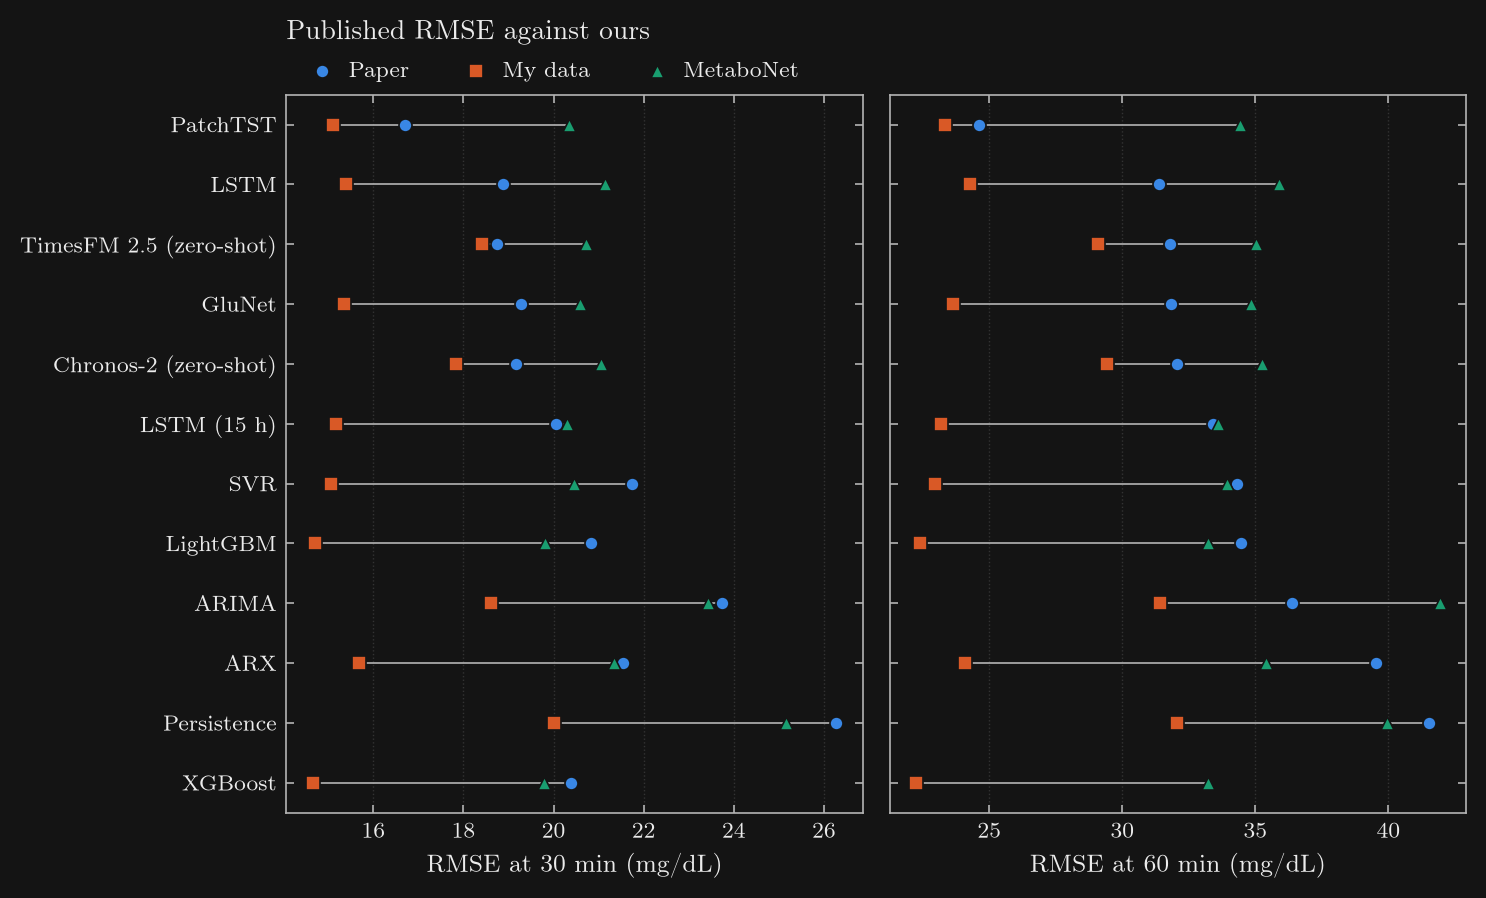
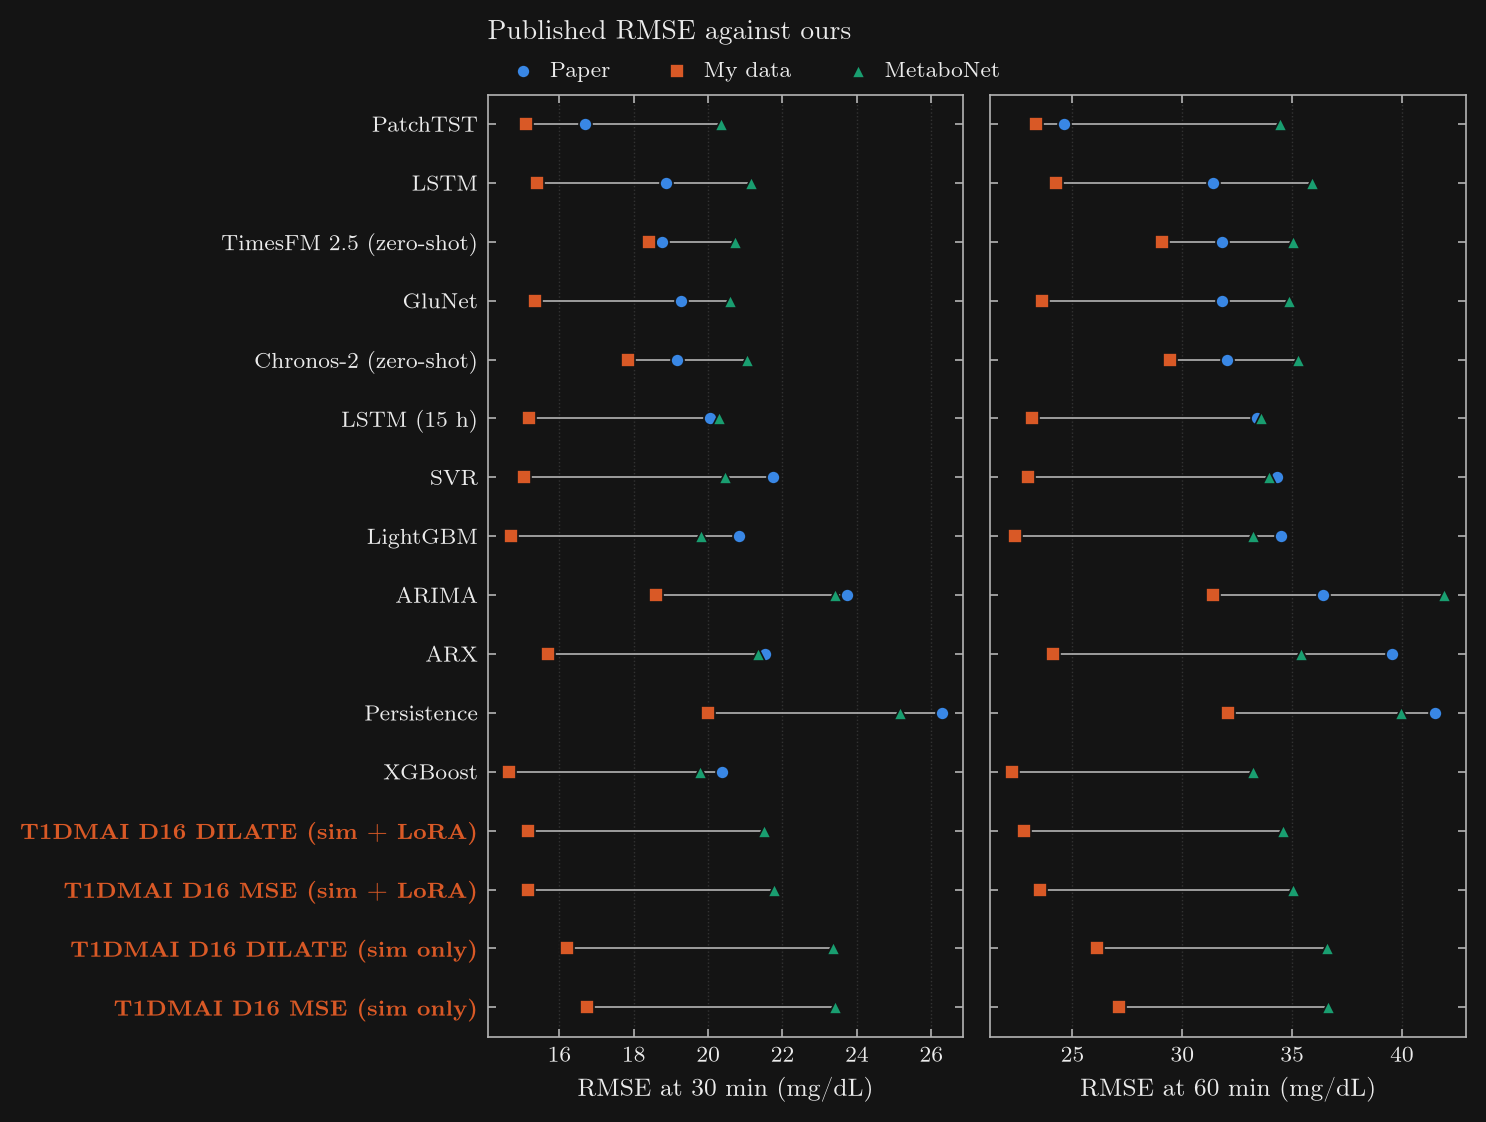
Add the T1DMAI models to the published scores figure and table
Claude-Session: https://claude.ai/code/session_01PhTL2TnzykHzNM6sbSfap7

diff --git a/leaderboard.py b/leaderboard.py
@@ -512,11 +512,21 @@ def fig_leaderboard(rows, title, stem, metric='rmse', xlabel='RMSE (mg/dL)', rev
         plt.close(fig)
 
 
+def _published_rows(pub: dict, scored: dict[str, list[dict]]) -> list[dict]:
+    """Paper rows by paper 60-min RMSE, then ``pub['ours']`` keys with no paper score."""
+    labels = {r['key']: r for rows in scored.values() for r in rows}
+    rows = [dict(p, family='') for p in sorted(pub['rows'],
+                                               key=lambda p: p['rmse'].get('60', np.inf))]
+    return rows + [{'key': k, 'label': labels[k]['label'], 'family': labels[k]['family'],
+                    'ref': None, 'dataset': '-', 'inputs': '-', 'rmse': {}}
+                   for k in pub.get('ours', []) if k in labels]
+
+
 def fig_published(pub, scored, shorts, title, stem):
     """Two panels (30, 60 min): paper RMSE and ours per track, one row per published model."""
     import matplotlib.pyplot as plt
     by = {n: {r['key']: r for r in rows} for n, rows in scored.items()}
-    rows = sorted(pub['rows'], key=lambda p: p['rmse'].get('60', np.inf))
+    rows = _published_rows(pub, scored)
     names = ['Paper', *shorts.values()]
     for theme, th in THEMES.items():
         fig, axes = plt.subplots(1, 2, sharey=True, figsize=(7.5, 0.28 * len(rows) + 1.2))
@@ -534,7 +544,7 @@ def fig_published(pub, scored, shorts, title, stem):
                 ax.plot([ok.min(), ok.max()], [i, i], color=th['ink2'], lw=0.6, zorder=2)
             ax.set_xlabel(tex(f'RMSE at {h} min (mg/dL)'))
         axes[0].set_ylim(len(rows) - 0.5, -0.5)
-        _model_ticks(axes[0], [{'label': p['label'], 'family': ''} for p in rows], th)
+        _model_ticks(axes[0], rows, th)
         axes[1].tick_params(labelleft=False)
         _legend(axes[0], th, loc='lower left', bbox_to_anchor=(0.0, 1.0), ncols=3,
                 borderaxespad=0.2, handletextpad=0.2)
@@ -969,9 +979,10 @@ def published_table(pub: dict, scored: dict[str, list[dict]], shorts: dict[str, 
         head += [f'{s} {h}' for h in hs]
     lines = ['| ' + ' | '.join(head) + ' |', '| --- | --- | --- | --- |' + ' ---: |' * (len(head) - 4)]
     by = {n: {r['key']: r for r in rows} for n, rows in scored.items()}
-    for p in pub['rows']:
-        ref = next(r for r in pub['references'] if r['id'] == p['ref'])
-        cells = [p['label'], f"[{num[p['ref']]}]({ref['url']})", p['dataset'], p['inputs'],
+    urls = {r['id']: r['url'] for r in pub['references']}
+    for p in _published_rows(pub, scored):
+        cite = f"[{num[p['ref']]}]({urls[p['ref']]})" if p['ref'] else '-'
+        cells = [p['label'], cite, p['dataset'], p['inputs'],
                  *(_fmt(p['rmse'].get(h)) for h in hs)]
         for n in shorts:
             ours = by[n].get(p['key'])

diff --git a/README.md b/README.md
@@ -507,20 +507,24 @@ two sides is not a like-for-like comparison. My data is non-blind, MetaboNet bli
 
 | Model | Paper | Paper data | Paper inputs | Paper 30 | Paper 60 | My data 30 | My data 60 | MetaboNet 30 | MetaboNet 60 |
 | --- | --- | --- | --- | ---: | ---: | ---: | ---: | ---: | ---: |
-| Persistence | [3](https://arxiv.org/abs/2606.18640) | MetaboNet | CGM | 26.3 | 41.5 | 20.0 | 32.1 | 25.2 | 40.0 |
-| ARX | [6](https://doi.org/10.1109/JBHI.2019.2931842) | OhioT1DM 2018 (6) | CGM, carbs, insulin | 21.5 | 39.5 | 15.7 | 24.1 | 21.3 | 35.4 |
-| ARIMA | [8](https://ceur-ws.org/Vol-2675/) | OhioT1DM 2020 (6) | CGM, doses, meals, exercise | 23.7 | 36.4 | 18.6 | 31.4 | 23.4 | 41.9 |
-| SVR | [6](https://doi.org/10.1109/JBHI.2019.2931842) | OhioT1DM 2018 (6) | CGM, carbs, insulin | 21.8 | 34.3 | 15.1 | 23.0 | 20.4 | 33.9 |
-| XGBoost | [7](https://ceur-ws.org/Vol-2148/) | OhioT1DM 2018 (6) | CGM, doses, meals, activity | 20.4 | - | 14.7 | 22.2 | 19.8 | 33.2 |
-| LightGBM | [3](https://arxiv.org/abs/2606.18640) | MetaboNet | CGM, carbs, insulin, time | 20.8 | 34.5 | 14.7 | 22.4 | 19.8 | 33.2 |
-| LSTM | [5](https://doi.org/10.1007/s41666-019-00059-y) | OhioT1DM 2018 (6) | CGM | 18.9 | 31.4 | 15.4 | 24.3 | 21.1 | 35.9 |
-| LSTM (15 h) | [3](https://arxiv.org/abs/2606.18640) | MetaboNet | CGM, carbs, insulin | 20.1 | 33.4 | 15.2 | 23.2 | 20.3 | 33.6 |
-| GluNet | [6](https://doi.org/10.1109/JBHI.2019.2931842) | OhioT1DM 2018 (6) | CGM, carbs, insulin | 19.3 | 31.8 | 15.4 | 23.6 | 20.6 | 34.8 |
 | PatchTST | [9](https://arxiv.org/abs/2505.08821) | DCLP3 train, OhioT1DM test (12) | CGM, carbs, insulin | 16.7 | 24.6 | 15.1 | 23.3 | 20.3 | 34.4 |
-| Chronos-2 (zero-shot) | [4](https://arxiv.org/abs/2606.06881) | 12 datasets, mixed | CGM | 19.2 | 32.0 | 17.8 | 29.4 | 21.0 | 35.3 |
+| LSTM | [5](https://doi.org/10.1007/s41666-019-00059-y) | OhioT1DM 2018 (6) | CGM | 18.9 | 31.4 | 15.4 | 24.3 | 21.1 | 35.9 |
 | TimesFM 2.5 (zero-shot) | [4](https://arxiv.org/abs/2606.06881) | 12 datasets, mixed | CGM | 18.8 | 31.8 | 18.4 | 29.1 | 20.7 | 35.0 |
+| GluNet | [6](https://doi.org/10.1109/JBHI.2019.2931842) | OhioT1DM 2018 (6) | CGM, carbs, insulin | 19.3 | 31.8 | 15.4 | 23.6 | 20.6 | 34.8 |
+| Chronos-2 (zero-shot) | [4](https://arxiv.org/abs/2606.06881) | 12 datasets, mixed | CGM | 19.2 | 32.0 | 17.8 | 29.4 | 21.0 | 35.3 |
+| LSTM (15 h) | [3](https://arxiv.org/abs/2606.18640) | MetaboNet | CGM, carbs, insulin | 20.1 | 33.4 | 15.2 | 23.2 | 20.3 | 33.6 |
+| SVR | [6](https://doi.org/10.1109/JBHI.2019.2931842) | OhioT1DM 2018 (6) | CGM, carbs, insulin | 21.8 | 34.3 | 15.1 | 23.0 | 20.4 | 33.9 |
+| LightGBM | [3](https://arxiv.org/abs/2606.18640) | MetaboNet | CGM, carbs, insulin, time | 20.8 | 34.5 | 14.7 | 22.4 | 19.8 | 33.2 |
+| ARIMA | [8](https://ceur-ws.org/Vol-2675/) | OhioT1DM 2020 (6) | CGM, doses, meals, exercise | 23.7 | 36.4 | 18.6 | 31.4 | 23.4 | 41.9 |
+| ARX | [6](https://doi.org/10.1109/JBHI.2019.2931842) | OhioT1DM 2018 (6) | CGM, carbs, insulin | 21.5 | 39.5 | 15.7 | 24.1 | 21.3 | 35.4 |
+| Persistence | [3](https://arxiv.org/abs/2606.18640) | MetaboNet | CGM | 26.3 | 41.5 | 20.0 | 32.1 | 25.2 | 40.0 |
+| XGBoost | [7](https://ceur-ws.org/Vol-2148/) | OhioT1DM 2018 (6) | CGM, doses, meals, activity | 20.4 | - | 14.7 | 22.2 | 19.8 | 33.2 |
+| T1DMAI D16 DILATE (sim + LoRA) | - | - | - | - | - | 15.2 | 22.8 | 21.5 | 34.6 |
+| T1DMAI D16 MSE (sim + LoRA) | - | - | - | - | - | 15.1 | 23.5 | 21.8 | 35.1 |
+| T1DMAI D16 DILATE (sim only) | - | - | - | - | - | 16.2 | 26.1 | 23.4 | 36.6 |
+| T1DMAI D16 MSE (sim only) | - | - | - | - | - | 16.8 | 27.1 | 23.4 | 36.7 |
 
-RMSE in mg/dL at the single step 30 or 60 min ahead, as printed in each paper.
+RMSE in mg/dL at the single step 30 or 60 min ahead, as printed in each paper. T1DMAI has no published score.
 
 Chronos-Bolt (Zhang et al. 2026) and N-HiTS (Potosnak et al. 2025; Sergazinov et al. 2024) are published only as RMSE averaged over every step up to the horizon, which is not the same quantity, so they have no row.
 

diff --git a/results/published.md b/results/published.md
@@ -1,18 +1,22 @@
 | Model | Paper | Paper data | Paper inputs | Paper 30 | Paper 60 | My data 30 | My data 60 | MetaboNet 30 | MetaboNet 60 |
 | --- | --- | --- | --- | ---: | ---: | ---: | ---: | ---: | ---: |
-| Persistence | [3](https://arxiv.org/abs/2606.18640) | MetaboNet | CGM | 26.3 | 41.5 | 20.0 | 32.1 | 25.2 | 40.0 |
-| ARX | [6](https://doi.org/10.1109/JBHI.2019.2931842) | OhioT1DM 2018 (6) | CGM, carbs, insulin | 21.5 | 39.5 | 15.7 | 24.1 | 21.3 | 35.4 |
-| ARIMA | [8](https://ceur-ws.org/Vol-2675/) | OhioT1DM 2020 (6) | CGM, doses, meals, exercise | 23.7 | 36.4 | 18.6 | 31.4 | 23.4 | 41.9 |
-| SVR | [6](https://doi.org/10.1109/JBHI.2019.2931842) | OhioT1DM 2018 (6) | CGM, carbs, insulin | 21.8 | 34.3 | 15.1 | 23.0 | 20.4 | 33.9 |
-| XGBoost | [7](https://ceur-ws.org/Vol-2148/) | OhioT1DM 2018 (6) | CGM, doses, meals, activity | 20.4 | - | 14.7 | 22.2 | 19.8 | 33.2 |
-| LightGBM | [3](https://arxiv.org/abs/2606.18640) | MetaboNet | CGM, carbs, insulin, time | 20.8 | 34.5 | 14.7 | 22.4 | 19.8 | 33.2 |
-| LSTM | [5](https://doi.org/10.1007/s41666-019-00059-y) | OhioT1DM 2018 (6) | CGM | 18.9 | 31.4 | 15.4 | 24.3 | 21.1 | 35.9 |
-| LSTM (15 h) | [3](https://arxiv.org/abs/2606.18640) | MetaboNet | CGM, carbs, insulin | 20.1 | 33.4 | 15.2 | 23.2 | 20.3 | 33.6 |
-| GluNet | [6](https://doi.org/10.1109/JBHI.2019.2931842) | OhioT1DM 2018 (6) | CGM, carbs, insulin | 19.3 | 31.8 | 15.4 | 23.6 | 20.6 | 34.8 |
 | PatchTST | [9](https://arxiv.org/abs/2505.08821) | DCLP3 train, OhioT1DM test (12) | CGM, carbs, insulin | 16.7 | 24.6 | 15.1 | 23.3 | 20.3 | 34.4 |
-| Chronos-2 (zero-shot) | [4](https://arxiv.org/abs/2606.06881) | 12 datasets, mixed | CGM | 19.2 | 32.0 | 17.8 | 29.4 | 21.0 | 35.3 |
+| LSTM | [5](https://doi.org/10.1007/s41666-019-00059-y) | OhioT1DM 2018 (6) | CGM | 18.9 | 31.4 | 15.4 | 24.3 | 21.1 | 35.9 |
 | TimesFM 2.5 (zero-shot) | [4](https://arxiv.org/abs/2606.06881) | 12 datasets, mixed | CGM | 18.8 | 31.8 | 18.4 | 29.1 | 20.7 | 35.0 |
+| GluNet | [6](https://doi.org/10.1109/JBHI.2019.2931842) | OhioT1DM 2018 (6) | CGM, carbs, insulin | 19.3 | 31.8 | 15.4 | 23.6 | 20.6 | 34.8 |
+| Chronos-2 (zero-shot) | [4](https://arxiv.org/abs/2606.06881) | 12 datasets, mixed | CGM | 19.2 | 32.0 | 17.8 | 29.4 | 21.0 | 35.3 |
+| LSTM (15 h) | [3](https://arxiv.org/abs/2606.18640) | MetaboNet | CGM, carbs, insulin | 20.1 | 33.4 | 15.2 | 23.2 | 20.3 | 33.6 |
+| SVR | [6](https://doi.org/10.1109/JBHI.2019.2931842) | OhioT1DM 2018 (6) | CGM, carbs, insulin | 21.8 | 34.3 | 15.1 | 23.0 | 20.4 | 33.9 |
+| LightGBM | [3](https://arxiv.org/abs/2606.18640) | MetaboNet | CGM, carbs, insulin, time | 20.8 | 34.5 | 14.7 | 22.4 | 19.8 | 33.2 |
+| ARIMA | [8](https://ceur-ws.org/Vol-2675/) | OhioT1DM 2020 (6) | CGM, doses, meals, exercise | 23.7 | 36.4 | 18.6 | 31.4 | 23.4 | 41.9 |
+| ARX | [6](https://doi.org/10.1109/JBHI.2019.2931842) | OhioT1DM 2018 (6) | CGM, carbs, insulin | 21.5 | 39.5 | 15.7 | 24.1 | 21.3 | 35.4 |
+| Persistence | [3](https://arxiv.org/abs/2606.18640) | MetaboNet | CGM | 26.3 | 41.5 | 20.0 | 32.1 | 25.2 | 40.0 |
+| XGBoost | [7](https://ceur-ws.org/Vol-2148/) | OhioT1DM 2018 (6) | CGM, doses, meals, activity | 20.4 | - | 14.7 | 22.2 | 19.8 | 33.2 |
+| T1DMAI D16 DILATE (sim + LoRA) | - | - | - | - | - | 15.2 | 22.8 | 21.5 | 34.6 |
+| T1DMAI D16 MSE (sim + LoRA) | - | - | - | - | - | 15.1 | 23.5 | 21.8 | 35.1 |
+| T1DMAI D16 DILATE (sim only) | - | - | - | - | - | 16.2 | 26.1 | 23.4 | 36.6 |
+| T1DMAI D16 MSE (sim only) | - | - | - | - | - | 16.8 | 27.1 | 23.4 | 36.7 |
 
-RMSE in mg/dL at the single step 30 or 60 min ahead, as printed in each paper.
+RMSE in mg/dL at the single step 30 or 60 min ahead, as printed in each paper. T1DMAI has no published score.
 
 Chronos-Bolt (Zhang et al. 2026) and N-HiTS (Potosnak et al. 2025; Sergazinov et al. 2024) are published only as RMSE averaged over every step up to the horizon, which is not the same quantity, so they have no row.
